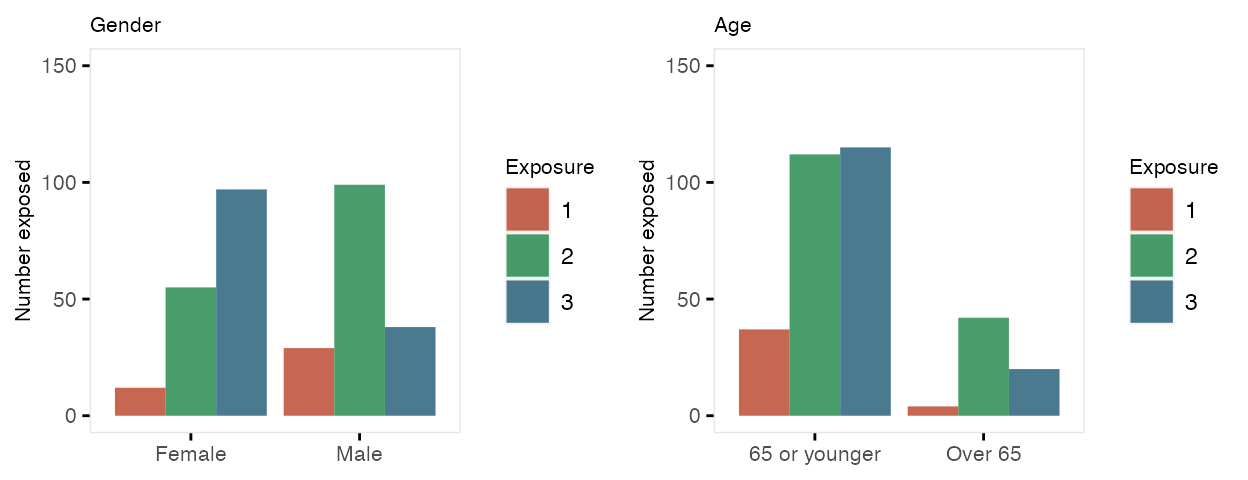
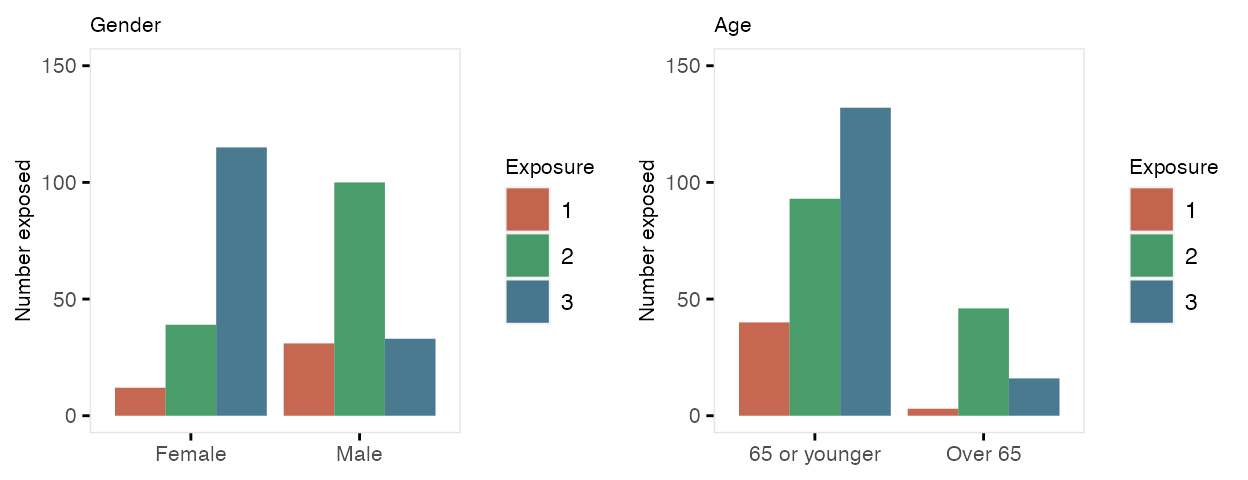
Built site for simstudy: 0.3.0.9000@f69d294

diff --git a/dev/articles/missing.html b/dev/articles/missing.html
@@ -158,18 +158,18 @@
 ## 1000: 1000  0  0  0 1 0</code></pre>
 <div class="sourceCode" id="cb5"><pre class="downlit sourceCode r">
 <code class="sourceCode R"><span class="va">dtObs</span></code></pre></div>
-<pre><code>##         id m  u         x1         x2         x3
-##    1:    1 0 NA -0.6039416  1.1690100  0.6776002
-##    2:    2 0 NA  1.6267014 -0.1863284 -0.8162936
-##    3:    3 1 NA         NA 23.1998101 20.9621020
-##    4:    4 1 NA         NA 19.6778856 20.0492044
-##    5:    5 0 NA         NA         NA  0.5870554
-##   ---                                           
-##  996:  996 1 NA 39.9223630 40.2087032 40.9215747
-##  997:  997 0 NA         NA  0.4951678 -1.7736239
-##  998:  998 0 NA 20.7424560 19.5161382         NA
-##  999:  999 0 NA 22.1510996 18.7830458 21.5015684
-## 1000: 1000 0 NA -2.2606000  0.6367896  1.1799367</code></pre>
+<pre><code>##         id m  u        x1        x2        x3
+##    1:    1 0 NA 19.537414 20.273004 19.885027
+##    2:    2 0 NA 20.610669 20.078113 19.639968
+##    3:    3 0 NA        NA  1.098851  2.170484
+##    4:    4 1 NA        NA 39.601979 38.979212
+##    5:    5 1 NA        NA        NA 41.606757
+##   ---                                        
+##  996:  996 1 NA 19.297310 21.136126 20.669913
+##  997:  997 1 NA        NA 19.199704 22.357291
+##  998:  998 0 NA 19.783560 16.804983        NA
+##  999:  999 1 NA 41.127185 41.319134 41.101955
+## 1000: 1000 0 NA -1.954926  1.470167  1.042704</code></pre>
 <p>The impacts of the various data mechanisms on estimation can be seen with a simple calculation of means using both the “true” data set without missing data as a comparison for the “observed” data set. Since <code>x1</code> is MCAR, the averages for both data sets are roughly equivalent. However, we can see below that estimates for <code>x2</code> and <code>x3</code> are biased, as the difference between observed and actual is not close to 0:</p>
 <div class="sourceCode" id="cb7"><pre class="downlit sourceCode r">
 <code class="sourceCode R"><span class="co"># Two functions to calculate means and compare them</span>
@@ -191,9 +191,9 @@
 
 <span class="fu">showDif</span><span class="op">(</span><span class="va">meanAct</span>, <span class="va">meanObs</span><span class="op">)</span></code></pre></div>
 <pre><code>##              x1   x2   x3
-## Actual     20.6 20.6 20.6
-## Observed   21.0 19.2 19.1
-## Difference -0.4  1.4  1.5</code></pre>
+## Actual     19.1 19.2 19.2
+## Observed   19.1 17.7 18.0
+## Difference  0.0  1.5  1.2</code></pre>
 <p>After adjusting for the measured covariate <code>m</code>, the bias for the estimate of the mean of <code>x2</code> is mitigated, but not for <code>x3</code>, since <code>u</code> is not observed:</p>
 <div class="sourceCode" id="cb9"><pre class="downlit sourceCode r">
 <code class="sourceCode R"><span class="va">meanActm</span> <span class="op">&lt;-</span> <span class="va">dtAct</span><span class="op">[</span>, <span class="fu">.</span><span class="op">(</span>x1 <span class="op">=</span> <span class="fu">rmean</span><span class="op">(</span><span class="va">x1</span><span class="op">)</span>, x2 <span class="op">=</span> <span class="fu">rmean</span><span class="op">(</span><span class="va">x2</span><span class="op">)</span>, x3 <span class="op">=</span> <span class="fu">rmean</span><span class="op">(</span><span class="va">x3</span><span class="op">)</span><span class="op">)</span>, keyby <span class="op">=</span> <span class="va">m</span><span class="op">]</span>
@@ -203,17 +203,17 @@
 
 <span class="fu">showDif</span><span class="op">(</span><span class="va">meanActm</span><span class="op">[</span><span class="va">m</span> <span class="op">==</span> <span class="fl">0</span>, <span class="fu">.</span><span class="op">(</span><span class="va">x1</span>, <span class="va">x2</span>, <span class="va">x3</span><span class="op">)</span><span class="op">]</span>, <span class="va">meanObsm</span><span class="op">[</span><span class="va">m</span> <span class="op">==</span> <span class="fl">0</span>, <span class="fu">.</span><span class="op">(</span><span class="va">x1</span>, <span class="va">x2</span>, <span class="va">x3</span><span class="op">)</span><span class="op">]</span><span class="op">)</span></code></pre></div>
 <pre><code>##              x1   x2   x3
-## Actual     10.8 10.8 10.8
-## Observed   11.1 10.9  9.0
-## Difference -0.3 -0.1  1.8</code></pre>
+## Actual     10.3 10.3 10.4
+## Observed   10.1 10.1  9.0
+## Difference  0.2  0.2  1.4</code></pre>
 <div class="sourceCode" id="cb12"><pre class="downlit sourceCode r">
 <code class="sourceCode R"><span class="co"># compare observed and actual when m = 1</span>
 
 <span class="fu">showDif</span><span class="op">(</span><span class="va">meanActm</span><span class="op">[</span><span class="va">m</span> <span class="op">==</span> <span class="fl">1</span>, <span class="fu">.</span><span class="op">(</span><span class="va">x1</span>, <span class="va">x2</span>, <span class="va">x3</span><span class="op">)</span><span class="op">]</span>, <span class="va">meanObsm</span><span class="op">[</span><span class="va">m</span> <span class="op">==</span> <span class="fl">1</span>, <span class="fu">.</span><span class="op">(</span><span class="va">x1</span>, <span class="va">x2</span>, <span class="va">x3</span><span class="op">)</span><span class="op">]</span><span class="op">)</span></code></pre></div>
 <pre><code>##              x1   x2   x3
-## Actual     29.9 30.0 29.9
-## Observed   30.1 30.5 28.3
-## Difference -0.2 -0.5  1.6</code></pre>
+## Actual     29.9 29.9 29.9
+## Observed   30.2 30.3 28.5
+## Difference -0.3 -0.4  1.4</code></pre>
 <div id="longitudinal-data-with-missingness" class="section level2">
 <h2 class="hasAnchor">
 <a href="#longitudinal-data-with-missingness" class="anchor"></a>Longitudinal data with missingness</h2>

diff --git a/dev/articles/treat_and_exposure.html b/dev/articles/treat_and_exposure.html
@@ -142,17 +142,17 @@
 
 <span class="va">study1</span></code></pre></div>
 <pre><code>##      cid male over65  baseDBP rxGrp
-##   1:   1    1      1 74.91443     2
-##   2:   2    0      0 68.68061     2
-##   3:   3    1      0 69.31716     3
-##   4:   4    1      1 76.16215     1
-##   5:   5    0      0 76.28604     2
+##   1:   1    0      0 73.24889     3
+##   2:   2    0      0 74.79747     3
+##   3:   3    1      1 71.68119     2
+##   4:   4    0      0 61.61284     3
+##   5:   5    1      1 64.85914     3
 ##  ---                               
-## 326: 326    1      0 66.84794     1
-## 327: 327    0      1 65.26332     3
-## 328: 328    1      1 73.73703     3
-## 329: 329    1      0 78.05675     1
-## 330: 330    1      0 72.45582     3</code></pre>
+## 326: 326    0      0 69.63006     1
+## 327: 327    1      1 70.64926     2
+## 328: 328    1      1 54.80542     1
+## 329: 329    1      0 70.61150     3
+## 330: 330    1      0 69.69035     3</code></pre>
 <p><em>Balanced treatment assignment (without stratification)</em></p>
 <div class="sourceCode" id="cb4"><pre class="downlit sourceCode r">
 <code class="sourceCode R"><span class="va">study2</span> <span class="op">&lt;-</span> <span class="fu"><a href="../reference/trtAssign.html">trtAssign</a></span><span class="op">(</span><span class="va">dtstudy</span>, n <span class="op">=</span> <span class="fl">3</span>, balanced <span class="op">=</span> <span class="cn">TRUE</span>, grpName <span class="op">=</span> <span class="st">"rxGrp"</span><span class="op">)</span></code></pre></div>
@@ -179,29 +179,29 @@
 <span class="va">dtstudy</span> <span class="op">&lt;-</span> <span class="fu"><a href="../reference/genData.html">genData</a></span><span class="op">(</span><span class="fl">330</span>, <span class="va">def</span><span class="op">)</span>
 <span class="va">dtstudy</span></code></pre></div>
 <pre><code>##      cid male over65 rx        y
-##   1:   1    1      1  0 28.57919
-##   2:   2    0      1  0 35.48090
-##   3:   3    0      0  1 14.63014
-##   4:   4    0      0  0 18.36512
-##   5:   5    1      1  0 30.10482
+##   1:   1    1      0  0 25.80689
+##   2:   2    0      0  1 27.59099
+##   3:   3    1      1  1 46.15931
+##   4:   4    0      0  1 27.17565
+##   5:   5    0      0  0 25.13501
 ##  ---                            
-## 326: 326    0      0  1 40.69141
-## 327: 327    0      0  0 10.18262
-## 328: 328    0      0  0 26.06703
-## 329: 329    1      0  0 37.68407
-## 330: 330    1      1  1 45.14772</code></pre>
+## 326: 326    1      1  1 39.98180
+## 327: 327    0      0  1 33.51484
+## 328: 328    1      0  1 36.02472
+## 329: 329    0      0  1 37.68542
+## 330: 330    0      0  0 15.64178</code></pre>
 <p>Here are the counts and average outcomes for each <em>gender</em>, <em>age</em>, and <em>treatment</em> combination:</p>
 <div class="sourceCode" id="cb8"><pre class="downlit sourceCode r">
 <code class="sourceCode R"><span class="va">dtstudy</span><span class="op">[</span>, <span class="fu">.</span><span class="op">(</span>n <span class="op">=</span> <span class="va">.N</span>, avg <span class="op">=</span> <span class="fu"><a href="https://rdrr.io/r/base/Round.html">round</a></span><span class="op">(</span><span class="fu"><a href="https://rdrr.io/r/base/mean.html">mean</a></span><span class="op">(</span><span class="va">y</span><span class="op">)</span>, <span class="fl">1</span><span class="op">)</span><span class="op">)</span>, keyby <span class="op">=</span> <span class="fu">.</span><span class="op">(</span><span class="va">male</span>, <span class="va">over65</span>, <span class="va">rx</span><span class="op">)</span><span class="op">]</span></code></pre></div>
 <pre><code>##    male over65 rx  n  avg
-## 1:    0      0  0 73 19.5
-## 2:    0      0  1 74 30.2
-## 3:    0      1  0  8 27.0
-## 4:    0      1  1  9 37.9
-## 5:    1      0  0 58 25.4
-## 6:    1      0  1 59 35.5
-## 7:    1      1  0 25 34.7
-## 8:    1      1  1 24 47.3</code></pre>
+## 1:    0      0  0 73 20.2
+## 2:    0      0  1 74 30.1
+## 3:    0      1  0 10 30.8
+## 4:    0      1  1  9 43.2
+## 5:    1      0  0 59 25.7
+## 6:    1      0  1 59 35.3
+## 7:    1      1  0 23 34.8
+## 8:    1      1  1 23 44.8</code></pre>
 </div>
 <div id="observed-treatment" class="section level2">
 <h2 class="hasAnchor">
